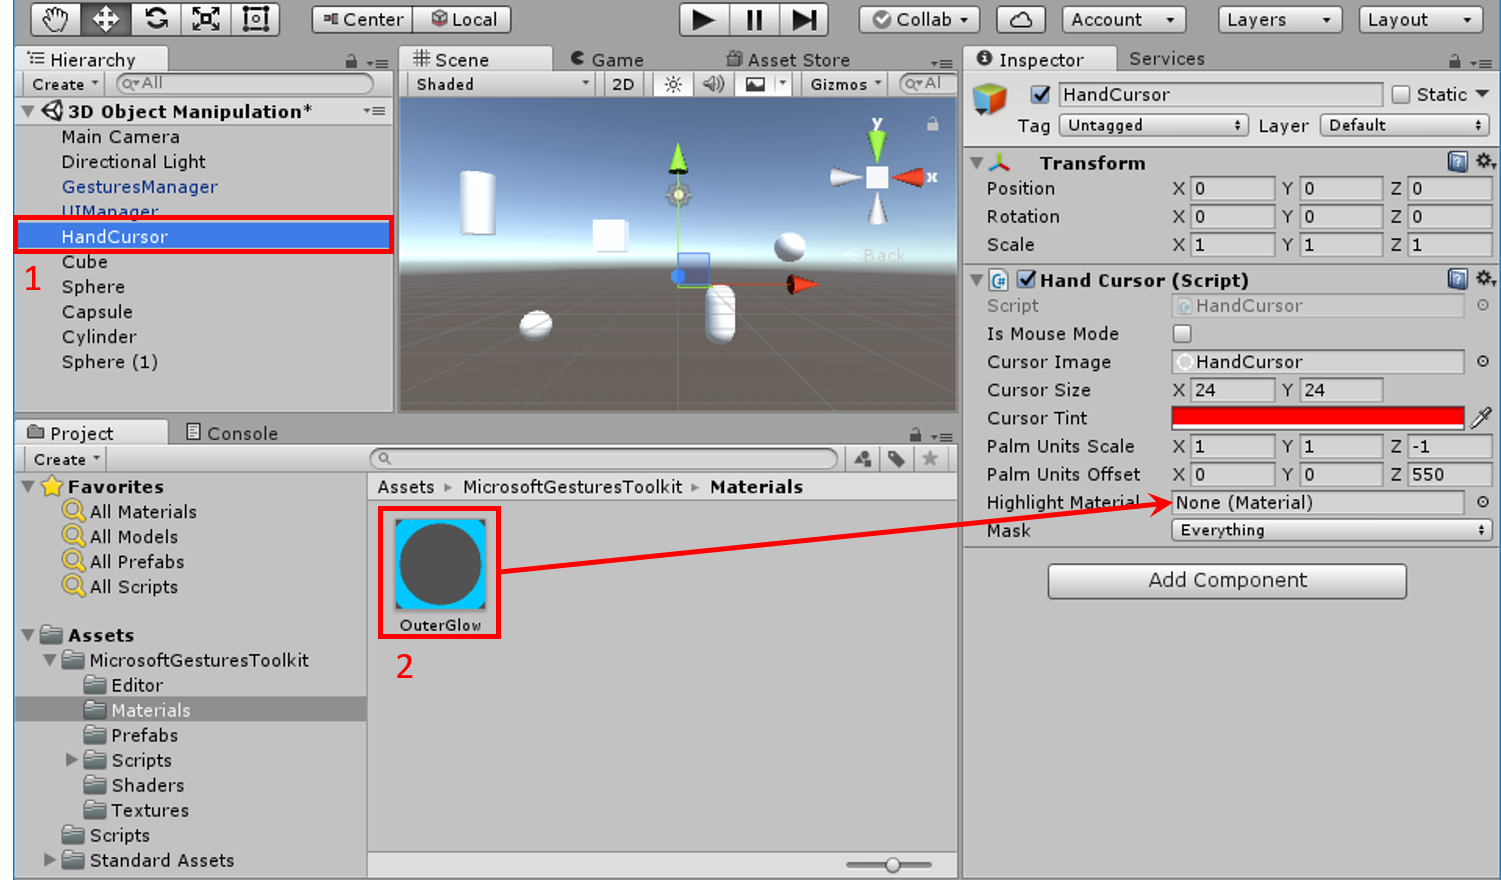
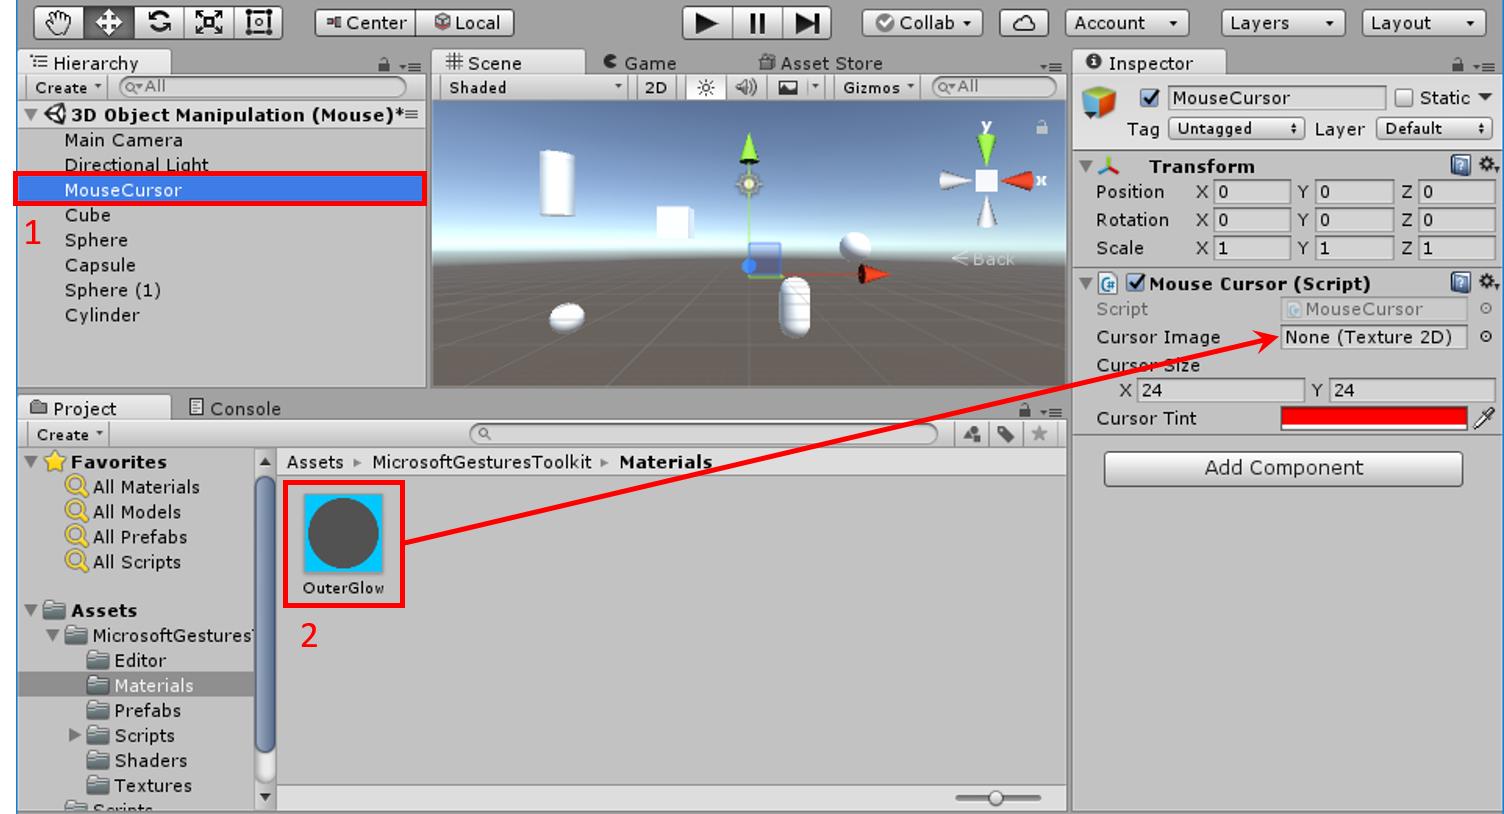
Mouse Cursor Tutorial

diff --git a/CodeSnippets/UpdateGrab.cs b/CodeSnippets/UpdateGrab.cs
@@ -1,7 +1,7 @@
     private void Update()
     {
         // Step 2.2: Add highlight material to hovered object
-        // Step 3:   Do not change hover object when grabbing
+        // Step 3.4: Do not change hovered object when grabbing
         if (HighlightMaterial && !_isGrabbing)
         {
             // Stop highlighting old hover object
@@ -16,18 +16,15 @@
                 _hoveredGameObject.AppendMaterial(HighlightMaterial);
         }
 
-        // Step 3: Handle Grabbing
-        if (IsMouseMode)
-        {
-            // Start grabbing object when left mouse button is down
-            if (Input.GetMouseButtonDown(0))
-                StartGrab();
+        // Start grabbing object when left mouse button is down
+        if (Input.GetMouseButtonDown(0))
+            StartGrab();
 
-            // Stop grabbing object when left mouse button is up
-            if (Input.GetMouseButtonUp(0))
-                StopGrab();
-        }
+        // Stop grabbing object when left mouse button is up
+        if (Input.GetMouseButtonUp(0))
+            StopGrab();
 
+        // Handle motion
         if (_isGrabbing)
         {    
             // move hovered object to follow the cursor position, while staying in the same plane

diff --git a/CodeSnippets/MouseCursor.cs b/CodeSnippets/MouseCursor.cs
@@ -2,7 +2,7 @@ using UnityEngine;
 using Microsoft.Gestures.UnitySdk;
 using Microsoft.Gestures.Toolkit;
 
-public class HandCursor : MonoBehaviour
+public class MouseCursor : MonoBehaviour
 {
     [Tooltip("The cursor image that will be displayed on the screen.")]
     public Texture2D CursorImage;
@@ -20,7 +20,7 @@ public class HandCursor : MonoBehaviour
         return Vector3.zero;
     }
 
-    private GameObject GetHoverObject()
+    private GameObject GetHoveredObject()
     {
         // Step 2: Raycast a ray from camera to object under cursor.
 
@@ -29,7 +29,7 @@ public class HandCursor : MonoBehaviour
 
     private float GetCursorDepthDelta()
     {
-        // Step 4: Compute the change in cursor depth with respect to previous frame
+        // Step 3: Compute the change in cursor depth with respect to previous frame
 
         return 0;
     }
@@ -50,7 +50,7 @@ public class HandCursor : MonoBehaviour
 
         // Step 3: Handle Grabbing
 
-        // Step 4: scale depth according to cursor's depth delta
+        // Step 3: scale depth according to cursor's depth delta
     }
 
     private void OnGUI()

diff --git a/CodeSnippets/GetCursorDepthDelta.cs b/CodeSnippets/GetCursorDepthDelta.cs
@@ -1,19 +1,5 @@
     private float GetCursorDepthDelta()
     {
-        // Step 5. Compute the change in cursor depth with respect to previous frame 
-        float delta;
-        if (IsMouseMode)
-        {
-            // Step 5.1: return mouse scroll delta
-            delta = Input.mouseScrollDelta.y / 10;
-        }
-        else
-        {
-            // Step 5.1: return palm depth delta
-            var currentDepth = GetPalmCameraPosition().z;
-            delta = (currentDepth - _lastPalmDepth) / 10;
-            _lastPalmDepth = currentDepth;
-        }
-
-        return Mathf.Max(Mathf.Min(delta, 1), -1);
+        // Step 3.6: return mouse scroll delta
+        return Input.mouseScrollDelta.y / 10;
     }

diff --git a/CodeSnippets/ObjectGrabbingChangeCursorColor.cs b/CodeSnippets/ObjectGrabbingChangeCursorColor.cs
@@ -1,2 +1,19 @@
+    private void OnGUI()
+    {
+        // Step 1.4: Draw cursor texture at the cursor's position on the screen.
+        var cursorPosition = (Vector2)GetCursorScreenPosition();
+
+        // Invert y direction
+        cursorPosition.y = Screen.height - cursorPosition.y;
+
+        // prepare bounds for cursor texture
+        var bounds = new Rect(cursorPosition - 0.5f * CursorSize, CursorSize);
+
+        // Change the tint color to match our cursor mode
+        var originalColor = GUI.color;
         // Add a condition when setting GUI.color
         GUI.color = _isGrabbing ? GrabCursorTint : CursorTint;
+        GUI.DrawTexture(bounds, CursorImage);
+
+        GUI.color = originalColor;
+    }

diff --git a/CodeSnippets/GrabbingBlockOfUpdate.cs b/CodeSnippets/GrabbingBlockOfUpdate.cs
@@ -2,6 +2,6 @@
             var ray = Camera.main.ScreenPointToRay(GetCursorScreenPosition());
             float distanceFromCamera;
             plane.Raycast(ray, out distanceFromCamera);
-            // Step 5.1: scale depth according to cursor's depth delta
+            // Step 3.7: scale depth according to cursor's depth delta
             distanceFromCamera *= 1 + GetCursorDepthDelta();
             _hoveredGameObject.transform.position = ray.GetPoint(distanceFromCamera);

diff --git a/CodeSnippets/OnGui.cs b/CodeSnippets/OnGui.cs
@@ -10,10 +10,9 @@
         var bounds = new Rect(cursorPosition - 0.5f * CursorSize, CursorSize);
 
         // Change the tint color to match our cursor mode
-        var originalColor = GUI.color;
-
-        // Step 3. Change cursor color when grab mode is on.
+        var originalColor = GUI.color;        
         GUI.color = CursorTint;
         GUI.DrawTexture(bounds, CursorImage);
+
         GUI.color = originalColor;
     }

diff --git a/CodeSnippets/GetCursorPosition.cs b/CodeSnippets/GetCursorPosition.cs
@@ -1,11 +1,5 @@
     private Vector3 GetCursorScreenPosition()
     {
-        if (IsMouseMode)
-        {
-            // Step 1.5: Return mouse screen position.
-            return Input.mousePosition;
-        }
-        
-        // Step 1.9: Replace mouse position with palm position.
-        return Vector3.zero;
+        // Step 1.5: Return mouse screen position.
+        return Input.mousePosition;
     }

diff --git a/CodeSnippets/Update.cs b/CodeSnippets/Update.cs
@@ -18,6 +18,4 @@
                 _hoveredGameObject.AppendMaterial(HighlightMaterial);
             }
         }
-
-        // Step 3: Handle Grabbing
     }

diff --git a/CodeSnippets/StartAndStopGrab.cs b/CodeSnippets/StartAndStopGrab.cs
@@ -7,7 +7,6 @@
         }
 
         _isGrabbing = true;
-        // step 5.1: save last value of hand depth
     }
 
     public void StopGrab()

diff --git a/CodeSnippets/ObjectGrabbingPublicMember.cs b/CodeSnippets/ObjectGrabbingPublicMember.cs
@@ -1,3 +1,2 @@
-
     [Tooltip("The color of the cursor in grab mode.")]
     public Color GrabCursorTint = Color.green;

diff --git a/unity-tutorials-3d-object-manipulation-mouse.md b/unity-tutorials-3d-object-manipulation-mouse.md
@@ -1,0 +1,132 @@
+# 3D Object Manipulation (Mouse)
+
+This tutorial serves as a preparation for the [3D Object Manipulation (Hand)](unity-tutorials-3d-object-manipulation.md) tutorial. In this tutorial, we will use existing Unity features to create a mouse-controlled cursor capable of moving objects in a 3D scene. In the [3D Object Manipulation (Hand)](unity-tutorials-3d-object-manipulation.md) tutorial, we will replace the mouse for hand gestures and motions.
+
+The final version of the Unity project obtained in this tutorial can be found in our open-source [samples GitHub repository](https://github.com/Microsoft/Gestures-Samples). After you clone the repository, follow these steps to run the final product of this tutorial:
+
+1. Launch Unity, in the **Projects** tab select **Open**.
+1. Browse to the **Unity\GesturesTutorial** directory within the cloned repository.
+1. When the project loads, go to the **Project** window and select the **Assets** directory.
+1. Double-click the **3D Object Manipulation (Mouse)** scene in the **Assets** directory.
+1. Press the play button (or **Ctrl+P**) to run the scene.
+
+## Prerequisites
+
+This tutorial assumes you have basic familiarity with the C# programming language and some experience with the Unity IDE - we expect you to know how to create projects, scenes, game objects and scripts. The tutorial will take approximately 30 minutes to complete.
+
+## Step 1 - Create the MouseCursor Game Object
+
+1. Open the project you've created in the [introduction tutorial](unity-tutorials-introduction.md#system-requirements) or create a new Unity project. If you choose to create a new project - refer to [step 1 in the introduction tutorial](unity-tutorials-introduction.md#step-1---create-and-configure-a-new-unity-project) to import the [Project Prague toolkit for Unity](https://github.com/Microsoft/Gestures-Samples/blob/master/Unity/Microsoft.Gestures.Toolkit.unitypackage).
+
+1. Press **Ctrl+N** to create a new scene and **Ctrl+S** to save the scene, naming it **3D Object Manipulation (Mouse)**.
+
+1. Create an empty game object and a corresponding C# script, name both **MouseCursor**. To associate them, go to the game object's **Inspector** view and drag the script to the blank area below the **Add Component** button (refer to [step 3 in the introduction tutorial](unity-tutorials-introduction.md#step-3---creating-a-script-that-generates-a-new-3d-primitive-in-the-scene) to read about associating a script with a game object).
+
+1. Open the **MouseCursor** script in Visual Studio (double click the script icon in the **Project** window) and replace its contents with the following code:
+
+    [!code-csharp[MouseCursor](CodeSnippets\MouseCursor.cs)]
+
+    As you can see, the **MouseCursor** methods are not yet implemented - they contain place-holders and comments.
+
+1. To make the cursor follow the mouse pointer, replace the **GetCursorScreenPosition()** method in **MouseCursor.cs** with the following contents:
+
+    [!code-csharp[GetCursorPosition](CodeSnippets\GetCursorPosition.cs)]
+
+    To draw the cursor in the correct position every time the screen is refreshed, replace the contents of **OnGUI()** in **MouseCursor.cs** with:
+
+    [!code-csharp[OnGui](CodeSnippets\OnGui.cs)]
+
+1. We will use the **PragueCursor.png** texture, provided with the [Project Prague toolkit for Unity](https://github.com/Microsoft/Gestures-Samples/blob/master/Unity/Microsoft.Gestures.Toolkit.unitypackage), as our cursor image. Select the **MouseCursor** game object in the **Hierarchy** window, locate the **PragueCursor.png** under **MicrosoftGesturesToolkit/Textures** in the **Project** window and drag-and-drop it to the **Cursor Image** box in the **Inspector** window:
+
+    ![Set MouseCursor Image](Images\UnitySetMouseCursorImage.png)
+
+1. Play the scene now. Whenever the mouse pointer is within the scene borders, you will see a red cursor following it:
+
+    ![Cursor following mouse](Images\UnityMouseCursor.png)
+
+## Step 2 - Highlight Object under Cursor
+
+We would like to use our cursor to move objects in the scene. On this step of the tutorial, we implement a feature that will help us recognize which object is currently under the cursor by highlighting that object.
+
+1. We will start by filling the scene with several primitive objects.
+
+    For convenience, we recommend you attain the viewpoint of the the **Main Camera** before you start adding new objects to the scene. Select the **Main Camera** in the **Hierarchy** window, then go to the **GameObject** menu and select **Align View with Selected**.
+
+    To instantiate new primitives, go to the **GameObject** menu again, select **3D Object** and pick one of the primitives in the sub-menu (**Cube**, **Sphere**, etc.). Repeat this process several times, moving each new primitive to a different location in space:
+
+    ![Fill scene with primitives](Images\UnityPopulateSceneWithPrimitives.png)
+
+> [!TIP]
+> To move an object, click on it, press **w** and than drag it using the [**Move** gizmo](https://docs.unity3d.com/Manual/PositioningGameObjects.html#move).
+
+1. Add a private member to the **MouseCursor** class. We will use this member to store the game object currently under the cursor. For brevity, we will refer to this object as "the hovered object":
+
+    [!code-csharp[HoveredGameObject](CodeSnippets\HoveredGameObject.cs)]
+
+    Also add the following public members. We will soon use them to highlight the hovered object:
+
+    [!code-csharp[HovePublicMembers](CodeSnippets\HoverPublicMembers.cs)]
+
+    To find the object currently under the cursor, we will use the following implementation for the **GetHoveredObject()** private method:
+
+    [!code-csharp[GetHoveredObject](CodeSnippets\GetHoveredObject.cs)]
+
+    To highlight the hovered object, replace the contents of **Update()** with the following:
+
+    [!code-csharp[Update](CodeSnippets\Update.cs)]
+
+    Save all changes to the **MouseCursor.cs** script.
+
+1. We will use the **OuterGlow.mat** material, provided with the [Project Prague toolkit for Unity](https://github.com/Microsoft/Gestures-Samples/blob/master/Unity/Microsoft.Gestures.Toolkit.unitypackage), to highlight the hovered object.
+
+    Select the **MouseCursor** game object in the **Hierarchy** window, locate the **OuterGlow.mat** material under **MicrosoftGesturesToolkit/Materials** in the **Project** window and drag-and-drop it to the **Highlight Material** box in the **Inspector** window:
+
+    ![Add the highlight material](Images\UnityAddHighlightMaterial.png)
+
+1. Play the scene and move around with the cursor. Every time an object is under the cursor, it will glow with a bluish halo:
+
+    ![Play scene with glow effect](Images\UnityGlowScene.png)
+
+## Step 3 - Move Object in 3D Using the Mouse
+
+On this step we will enable our cursor to "grab" an object and move it in space. For now, the motion will be restricted to a 2D plane. In the [final step](#Step-5---move-object-in-3d-space) we will add support for motion in the third dimension.
+
+1. In the **MouseCursor.cs** script, prepare the following private member:
+
+    [!code-csharp[Object Grabbing - private members](CodeSnippets\ObjectGrabbingPrivateMembers.cs)]
+
+    And the following public Member:
+
+    [!code-csharp[Object gerabbing - private members](CodeSnippets\ObjectGrabbingPublicMember.cs)]
+
+1. Replace **OnGUI()** method with:
+
+    [!code-csharp[Object grabbing - change cursor color](CodeSnippets\ObjectGrabbingChangeCursorColor.cs)]
+
+    This will cause the cursor to change color to **GrabCursorTint** when it enters grab mode.
+
+1. We are now ready to implement the **StartGrab()** and **StopGrab()** methods:
+
+    [!code-csharp[Start and stop grab](CodeSnippets\StartAndStopGrab.cs)]
+
+1. In the **Update()** method, we would like to add the following functionality:
+    - Enter (leave) grab mode whenever the left mouse button is pressed (released) while an object is being hovered.
+    - When in grab mode - the hovered object should follow the cursor.
+
+    To achieve this, modify the **Update()** method as follows:
+
+    [!code-csharp[Update method - grab related code](CodeSnippets\UpdateGrab.cs)]
+
+1. Run the scene now, hover over an object and move it by pressing the left mouse button and dragging. Note that the color of the cursor changes to green in grab mode.
+
+1. We will enable the grabbed object to move in the depth dimension. We will use the scroll wheel to control this dimension.
+
+    Replace the contents of **GetCursorDepthDelta()** with the following:
+
+    [!code-csharp[GetCursorDepthDelta() method](CodeSnippets\GetCursorDepthDelta.cs)]
+
+1. We will now update the code that moves the grabbed object to take the cursor's "depth delta" into account. In the **Update()** method, replace the **IsGrabbing** if-block with:
+
+    [!code-csharp[GetCursorDepthDelta() method](CodeSnippets\GrabbingBlockOfUpdate.cs)]
+
+1. Try running the scene now. You should be able to move the grabbed object in all three dimensions, using the scroll wheel to move in the depth dimension.
